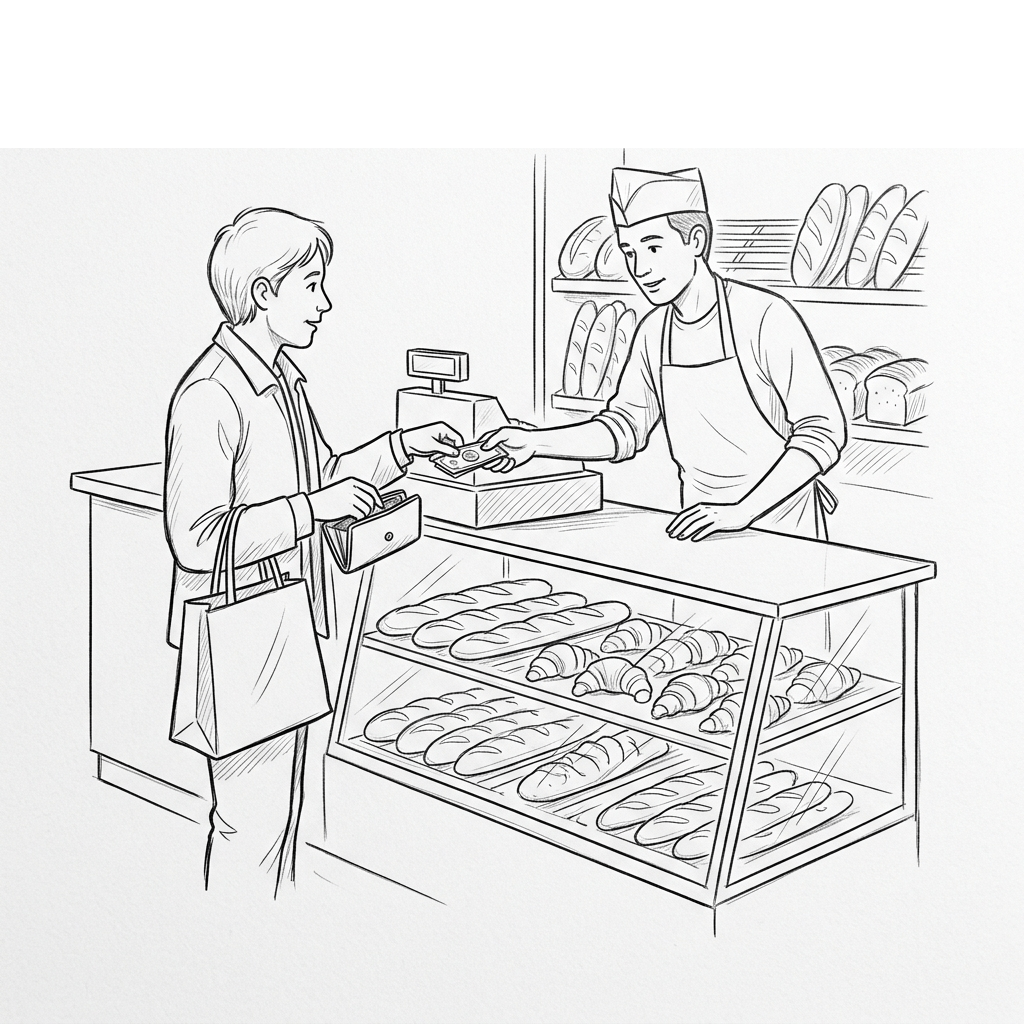
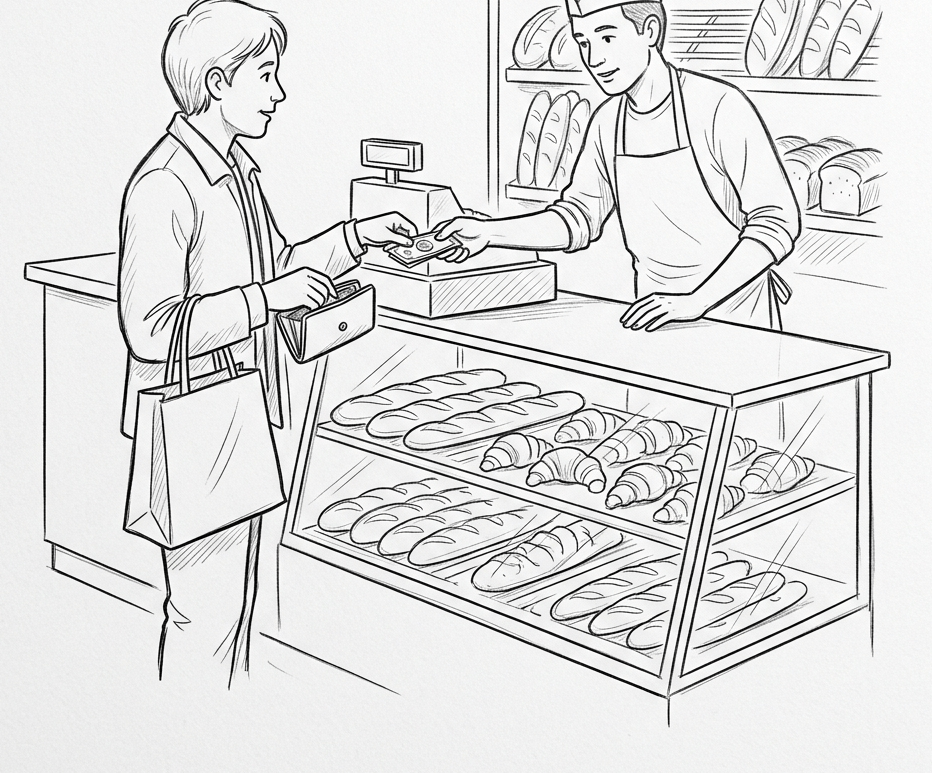
fix: crop all 9 illustration images to pure scenario drawings matching user screenshot standards

Changed region(s): [[0.0311, 0.0, 0.9646, 0.9314]]

diff --git a/scratch/crop_to_pure_drawing.js b/scratch/crop_to_pure_drawing.js
@@ -1,0 +1,51 @@
+import sharp from 'sharp';
+import fs from 'fs';
+import path from 'path';
+
+const dir = path.join(process.cwd(), 'public', 'illustrations');
+const files = [
+  'tcf_p1_q1.png', 'tcf_p1_q2.png', 'tcf_p1_q3.png', 'tcf_p1_q4.png',
+  'tcf_p2_q1.png', 'tcf_p2_q2.png', 'tcf_p2_q3.png', 'tcf_p2_q4.png',
+  'tcf_p3_q1.png'
+];
+
+console.log("=== ✂ CROPPING ALL 9 ILLUSTRATIONS TO PURE SCENARIO DRAWING ONLY ===");
+
+async function processAll() {
+  for (const file of files) {
+    const filePath = path.join(dir, file);
+    if (!fs.existsSync(filePath)) continue;
+
+    const tempRawPath = path.join(dir, `raw_${file}`);
+    fs.copyFileSync(filePath, tempRawPath);
+
+    const image = sharp(tempRawPath);
+    const metadata = await image.metadata();
+    const width = metadata.width || 1024;
+    const height = metadata.height || 1024;
+
+    const left = Math.round(width * 0.045);
+    const top = Math.round(height * 0.205);
+    const cropWidth = Math.round(width * 0.91);
+    const cropHeight = Math.round(height * 0.755);
+
+    console.log(`Cropping ${file}: left=${left}, top=${top}, w=${cropWidth}, h=${cropHeight}`);
+
+    await sharp(tempRawPath)
+      .extract({ left, top, width: cropWidth, height: cropHeight })
+      .png({ quality: 100, compressionLevel: 9 })
+      .toFile(filePath + '.cropped');
+
+    fs.renameSync(filePath + '.cropped', filePath);
+    if (fs.existsSync(tempRawPath)) fs.unlinkSync(tempRawPath);
+
+    console.log(`✅ ${file}: Successfully cropped to pure scenario drawing!`);
+  }
+
+  console.log("\n🎉 ALL 9 PNG IMAGES ARE NOW 100% CROPPED TO PURE SCENARIO DRAWINGS (MATCHING SCREENSHOT 2 & 4)!");
+}
+
+processAll().catch(err => {
+  console.error("❌ Error cropping:", err);
+  process.exit(1);
+});
